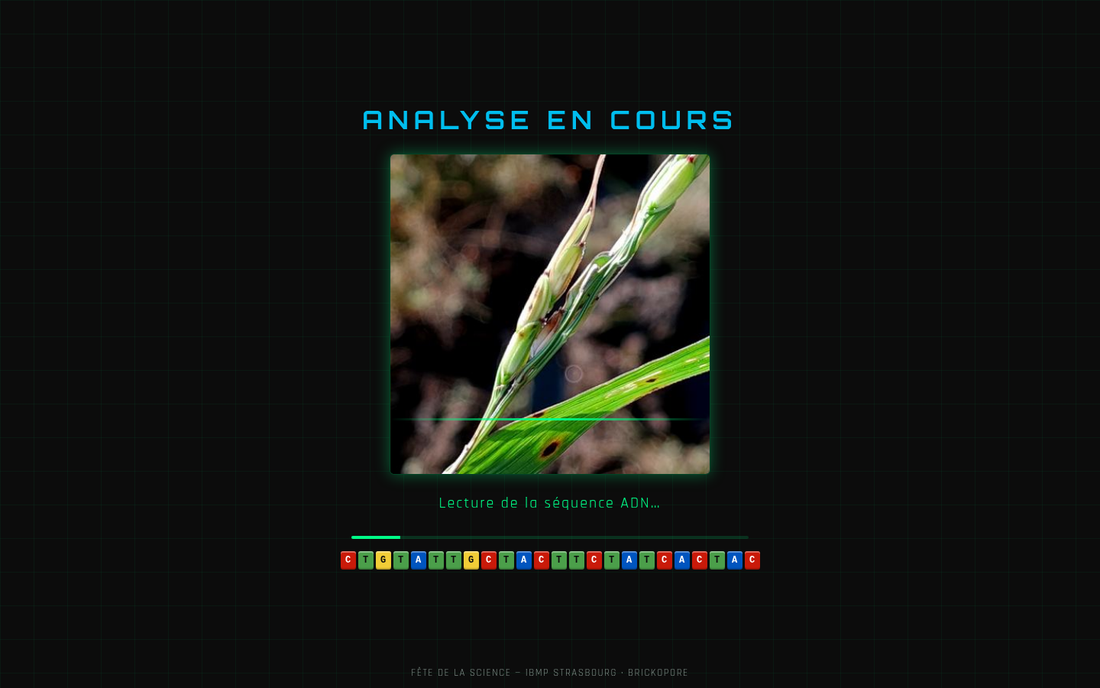
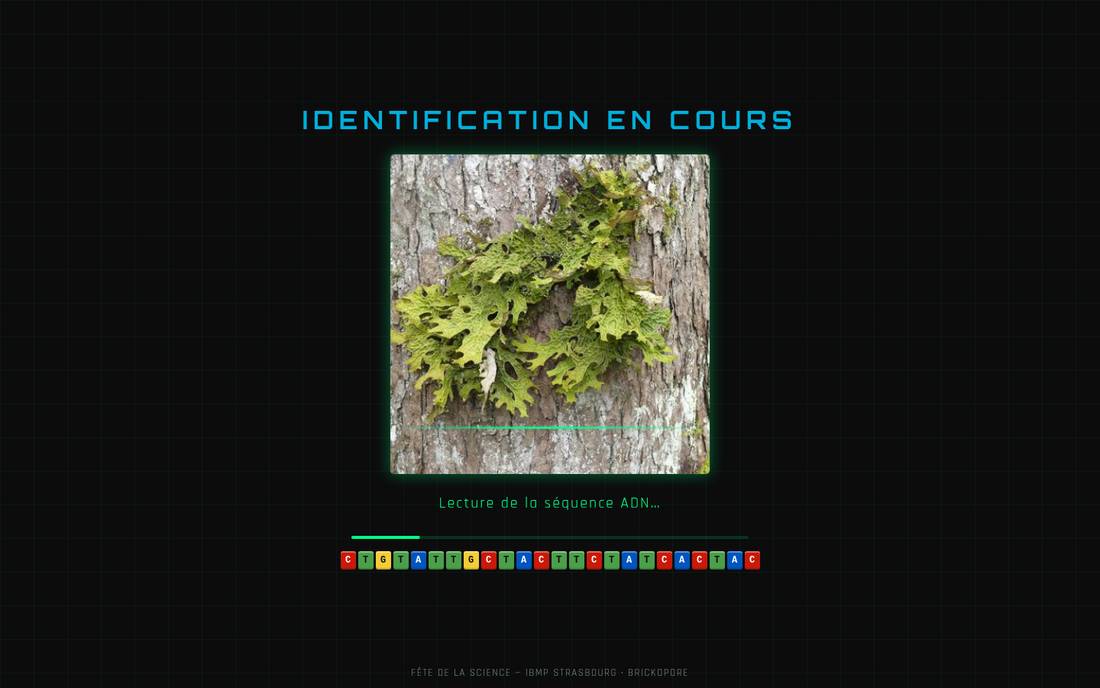
Corriger « IDENTICATION » sur l'écran de recherche
Coquille dans le titre de l'écran de recherche, affiché en grandes
capitales devant le public : il manquait le « fi ». La capture du README
est refaite avec le titre corrigé.

La modification du libellé, elle, n'est pas de moi : elle avait été faite
pendant que je travaillais et mon commit précédent l'a emportée avec le
README.

Claude-Session: https://claude.ai/code/session_01FzEE83QwgjUwuGkpkoPYrZ

Changed region(s): [[0.2782, 0.1526, 0.7418, 0.702]]

diff --git a/src/BioDetective.js b/src/BioDetective.js
@@ -816,7 +816,7 @@ export default function BioDetective() {
     const img = ready.length ? ready[imageIndex % ready.length] : null;
     return (
       <div className="screen screen--search">
-        <h2 className="search__title">IDENTICATION EN COURS</h2>
+        <h2 className="search__title">IDENTIFICATION EN COURS</h2>
 
         <div className="search__frame">
           {montage ? (
